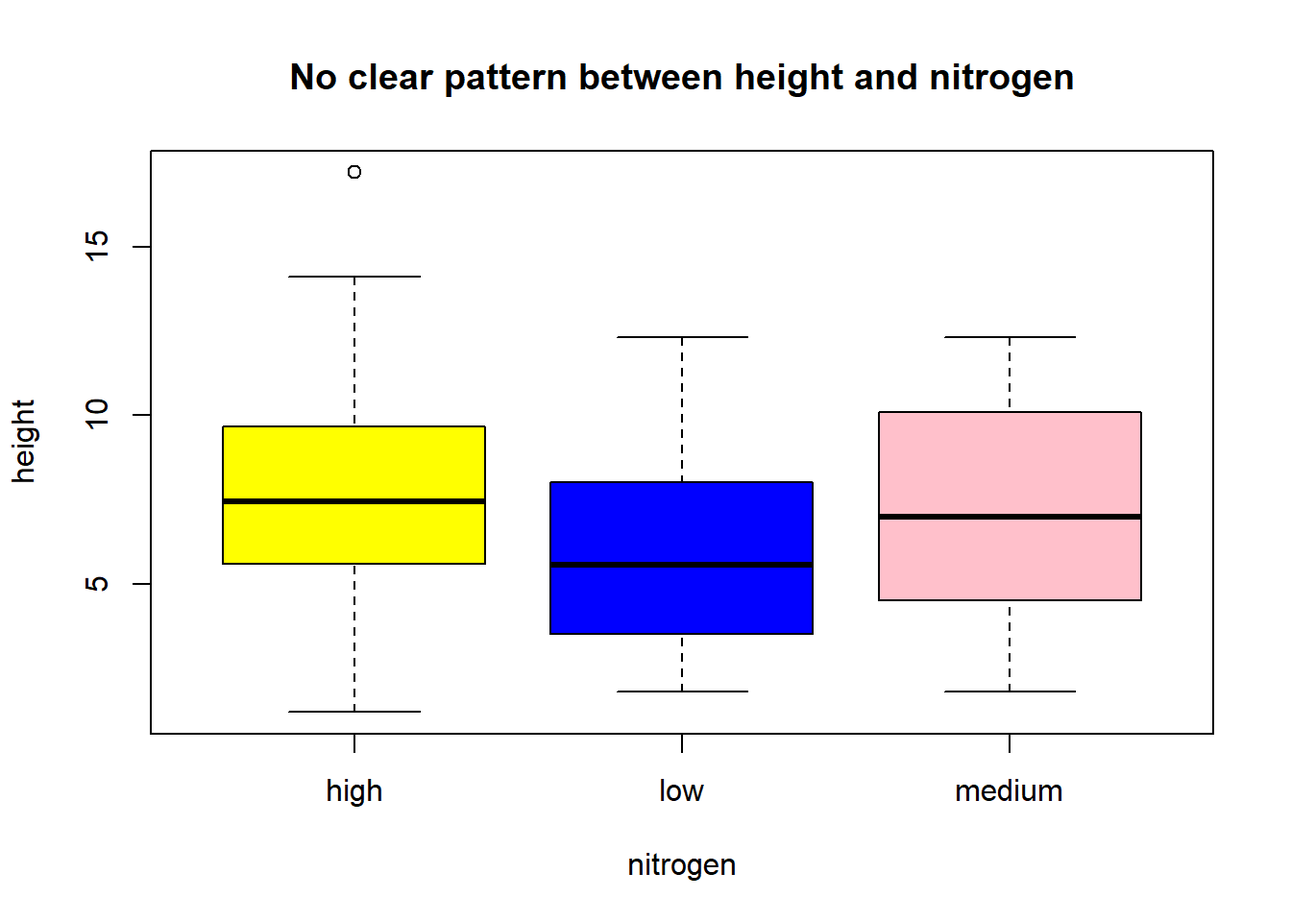
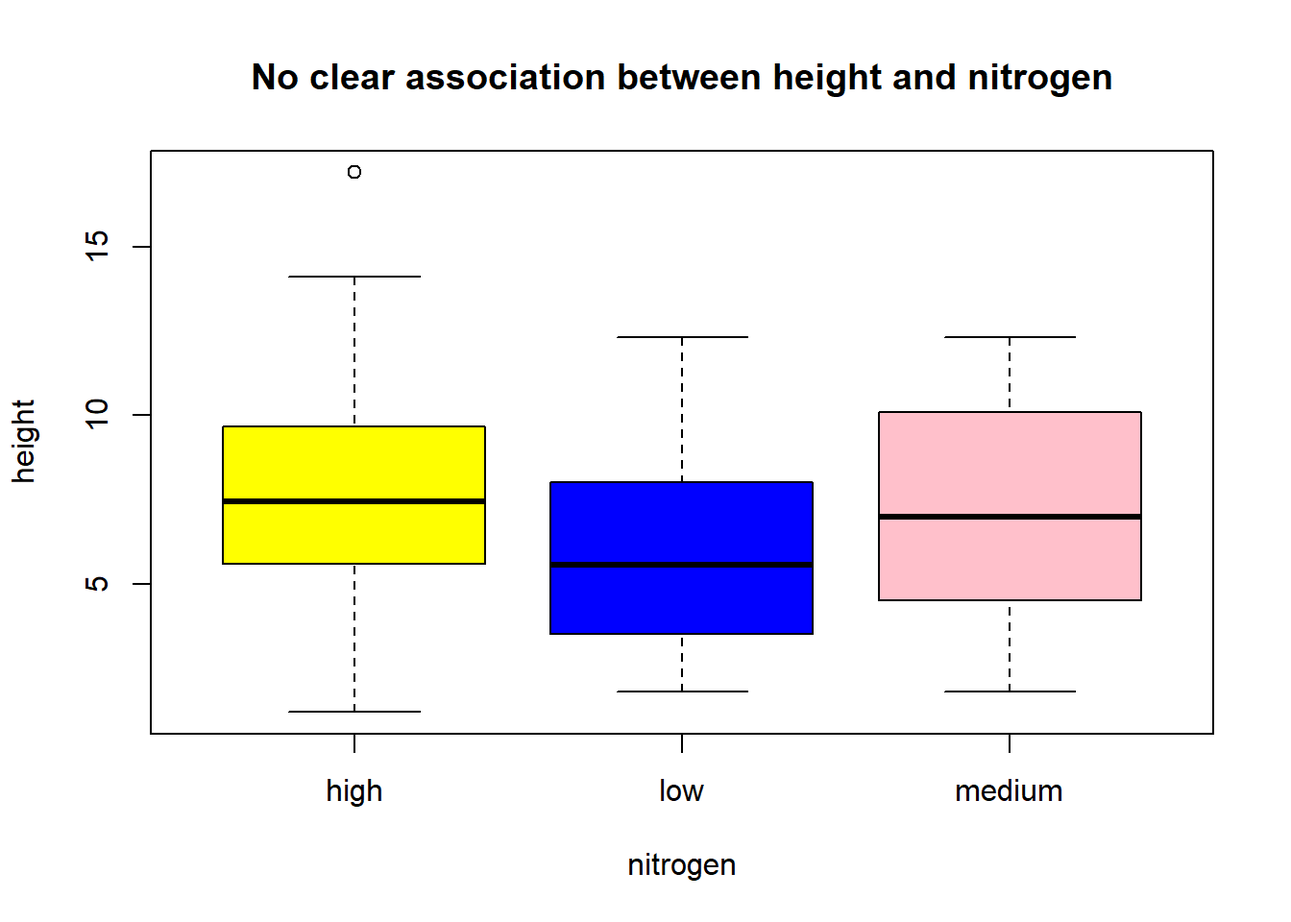
Multiple edits for clarity

Changed region(s): [[0.1875, 0.0625, 0.875, 0.125]]

diff --git a/docs/04_basic_data_processing.html b/docs/04_basic_data_processing.html
@@ -210,8 +210,7 @@ pre > code.sourceCode > span > a:first-child::before { text-decoration: underlin
 
 </header>
 
-<p>Now that we understand how <strong>R</strong> handles data, we can start working with pre-existing data files. These files need to be correctly formatted and in a file format that <strong>R</strong> can recognize. Don’t worry, there are plenty of options.</p>
-<p>The first step when loading data in <strong>R</strong> is to locate our working directory. This is the default location where <strong>R</strong> will look for files we want to load and where it will put any files we save. The working directory will change on different computers. To find our current working directory, we run:</p>
+<p>Now we can apply our understanding of <strong>R</strong> to work with files of pre-existing data. The first step when loading data into <strong>R</strong> is to locate our working directory. This is the default location where <strong>R</strong> will look for files we want to load and where it will put any files we save. The working directory will change on different computers. To find our current working directory, we run:</p>
 <div class="cell">
 <div class="sourceCode cell-code" id="cb1"><pre class="sourceCode r code-with-copy"><code class="sourceCode r"><span id="cb1-1"><a href="#cb1-1" aria-hidden="true" tabindex="-1"></a><span class="fu">getwd</span>()</span></code><button title="Copy to Clipboard" class="code-copy-button"><i class="bi"></i></button></pre></div>
 </div>
@@ -220,19 +219,19 @@ pre > code.sourceCode > span > a:first-child::before { text-decoration: underlin
 <pre><code>[1] "C:/Users/user_name/workshop_folder/learning_r/code"</code></pre>
 </div>
 </div>
-<p>We can move our working directory to any folder on your computer with the function <code>setwd()</code>. Just give <code>setwd()</code> the <a href="https://www.codecademy.com/resources/docs/general/file-paths">file path</a> to your new working directory. I prefer to set my working directory to a folder dedicated to whichever project I am currently working on. This way, all files related to my project are in the same place. For example:</p>
+<p>We can move our working directory to any folder on our computer by writing a new <a href="https://www.codecademy.com/resources/docs/general/file-paths">file path</a> inside the function <code>setwd()</code>. I prefer to set my working directory to a folder dedicated to whichever project I am currently working on. This way, every file related to my project is in the same place. For example:</p>
 <div class="cell">
 <div class="sourceCode cell-code" id="cb3"><pre class="sourceCode r code-with-copy"><code class="sourceCode r"><span id="cb3-1"><a href="#cb3-1" aria-hidden="true" tabindex="-1"></a><span class="fu">setwd</span>(<span class="st">"C:/Users/user_name/workshop_folder/learning_r/code"</span>)</span></code><button title="Copy to Clipboard" class="code-copy-button"><i class="bi"></i></button></pre></div>
 </div>
-<p>We can also change your working directory by clicking on Session &gt; Set Working Directory &gt; Choose Directory in the <strong>R</strong>Studio menu bar. The Windows and Mac graphical user interfaces have similar options. If we start <strong>R</strong> from a UNIX command line (as on Linux machines), the working directory will be whichever directory we were in when we called <strong>R</strong>.</p>
+<p>We can also change our working directory by clicking on Session &gt; Set Working Directory &gt; Choose Directory in the <strong>R</strong>Studio menu bar. The Windows and Mac graphical user interfaces have similar options. If we start <strong>R</strong> from a UNIX command line (as on Linux machines), the working directory will be whichever directory we were in when we called <strong>R</strong>.</p>
 <p><code>list.files()</code> will show us what files are in our working directory. If the file that we want to open is in our working directory, then we are ready to proceed.</p>
 <section id="loading-data" class="level2" data-number="4.1">
 <h2 data-number="4.1" class="anchored" data-anchor-id="loading-data"><span class="header-section-number">4.1</span> Loading data</h2>
 <p>Once we know where to find data files in our computer, we can start loading them into <strong>R</strong>. Note, however, that we need specific ways to open different file formats.</p>
 <section id="plain-text-files" class="level3" data-number="4.1.1">
 <h3 data-number="4.1.1" class="anchored" data-anchor-id="plain-text-files"><span class="header-section-number">4.1.1</span> Plain text files</h3>
-<p>Plain-text files are simple and many programs can read them. This is why many organizations (e.g., the Census Bureau, the Social Security Administration, etc.) publish their data as plain-text files.</p>
 <p>A plain-text file stores a table of data in a text document. Each row of the table is saved on its own line, and a simple symbol separates the cells within a row. This symbol is often a comma, but it can also be a tab, a pipe delimiter <code>|</code>, or any other character. Each file only uses one symbol to separate cells, which minimizes confusion.</p>
+<p>Plain-text files are simple and many programs can read them. This is why many organizations (e.g., the Census Bureau and the Social Security Administration) publish their data as plain-text files.</p>
 <p>We will work with data from <a href="https://github.com/CSCAR/workshop-r-intro/blob/main/data_files/flower.csv">this</a><a href="#fn1" class="footnote-ref" id="fnref1" role="doc-noteref"><sup>1</sup></a> plain text file. Use <code>Ctrl+Shift+s</code> to download the file. I am going to save it in a folder called “data_files” inside my working directory under the name “flower.csv”. But you can save it wherever you want as long as you can keep track of it.</p>
 <section id="read.table" class="level4" data-number="4.1.1.1">
 <h4 data-number="4.1.1.1" class="anchored" data-anchor-id="read.table"><span class="header-section-number">4.1.1.1</span> read.table</h4>
@@ -240,8 +239,8 @@ pre > code.sourceCode > span > a:first-child::before { text-decoration: underlin
 <div class="cell">
 <div class="sourceCode cell-code" id="cb4"><pre class="sourceCode r code-with-copy"><code class="sourceCode r"><span id="cb4-1"><a href="#cb4-1" aria-hidden="true" tabindex="-1"></a>flower_df <span class="ot">&lt;-</span> <span class="fu">read.table</span>(<span class="st">"data_files/flower.csv"</span>, <span class="at">header =</span> <span class="cn">TRUE</span>, <span class="at">sep =</span> <span class="st">","</span>)</span></code><button title="Copy to Clipboard" class="code-copy-button"><i class="bi"></i></button></pre></div>
 </div>
-<p>In the code above, I added two more arguments, <code>header</code> and <code>sep</code>. <code>header</code> tells <strong>R</strong> whether the first line of the file contains variable names instead of values. <code>sep</code> tells <strong>R</strong> the symbol that the file uses to separate the cells.</p>
-<p>Sometimes a plain-text file starts with text that is not part of the data set. Or, maybe we want to read only part of a data set. Argument <code>skip</code> tells <strong>R</strong> to skip a specific number of lines before it starts reading in values from the file. Argument <code>nrow</code> tells <strong>R</strong> to stop reading in values after it has read in a certain number of lines. Keep in mind that the header row doesn’t count towards the total rows allowed by <code>nrow</code>.</p>
+<p>In the code above, I added arguments <code>header</code> and <code>sep</code>. <code>header</code> tells <strong>R</strong> whether the first line of the file contains variable names instead of values; this will help us identify the variables in the data frame. <code>sep</code> tells <strong>R</strong> the symbol that the file uses to separate the cells; this will help us preserve the correct location of the data cells.</p>
+<p>Sometimes a plain-text file starts with text that is not part of the data set. Or maybe we want to read only part of a data set. Argument <code>skip</code> tells <strong>R</strong> to skip a specific number of lines before it starts reading values from the file. Argument <code>nrow</code> tells <strong>R</strong> to only read a certain number of lines, starting from the top. Keep in mind that <code>nrow</code> does not count the header in the number of rows it reads.</p>
 <div class="cell">
 <div class="sourceCode cell-code" id="cb5"><pre class="sourceCode r code-with-copy"><code class="sourceCode r"><span id="cb5-1"><a href="#cb5-1" aria-hidden="true" tabindex="-1"></a>flower_df_chunk <span class="ot">&lt;-</span> <span class="fu">read.table</span>(</span>
 <span id="cb5-2"><a href="#cb5-2" aria-hidden="true" tabindex="-1"></a>    <span class="st">"data_files/flower.csv"</span>, </span>
@@ -273,11 +272,11 @@ pre > code.sourceCode > span > a:first-child::before { text-decoration: underlin
 </section>
 <section id="html-links" class="level4" data-number="4.1.1.3">
 <h4 data-number="4.1.1.3" class="anchored" data-anchor-id="html-links"><span class="header-section-number">4.1.1.3</span> HTML links</h4>
-<p><code>read.table()</code> and its shortcuts allow us to load data files directly from a website. Instead of using the file’s path or name, we can directly use a web address in the <code>file</code> argument of the function. Do make sure that you are using the web address that links directly to the file, not to a web page that has a link to the file.</p>
+<p><code>read.table()</code> and its shortcuts allow us to load data files directly from a website. Instead of using the file’s path or name, we can directly use a web address in the <code>file</code> argument of the function. Make sure to use the web address that links directly to the file, not to a web page that has a link to the file.</p>
 </section>
 <section id="read.fwf" class="level4" data-number="4.1.1.4">
 <h4 data-number="4.1.1.4" class="anchored" data-anchor-id="read.fwf"><span class="header-section-number">4.1.1.4</span> read.fwf</h4>
-<p><em>Fixed-width file</em> (.fwf) is a type of plain-text file that, instead of a symbol, uses its layout to separate data cells. Each row is still in a single line, and each column begins at a specific number of characters from the left-hand side of the document. To correctly position its data, the file adds an arbitrary number of character spaces between data entries.</p>
+<p>A <em>fixed-width file</em> (.fwf) is a type of plain-text file that, instead of a symbol, uses its layout to separate data cells. Each row is still in a single line, and each column begins at a specific number of characters from the left-hand side of the document. To correctly position its data, the file adds an arbitrary number of character spaces between data entries.</p>
 <p>If our flowers data came in a fixed-width file, the first few lines would look like this:</p>
 <div class="cell">
 <pre class="flowers cell-code"><code>treat  nitrogen block  height  weight  leafarea  shootarea  flowers
@@ -289,18 +288,18 @@ tip    medium   1      10.4    13.58   14.5      26.9       4
 tip    medium   1      9.8     10.08   12.2      72.7       9</code></pre>
 </div>
 <p>Fixed-width files may be visually intuitive, but they are difficult to work with. This may explain why <strong>R</strong> has a function for reading fixed-width files, but not for saving them.</p>
-<p>We can read fixed-width files into R with the function <code>read.fwf()</code>. This function adds another argument to the ones from <code>read.table()</code>: <code>widths</code>, which should be a vector of numbers. Each ith entry of the <code>widths</code> vector should state the width (in characters) of the ith column of the data set.</p>
+<p>We can read fixed-width files into <strong>R</strong> with the function <code>read.fwf()</code>. This function adds another argument to the ones from <code>read.table()</code>: <code>widths</code>, which should be a vector of numbers. Each ith entry of the <code>widths</code> vector should state the width (in characters) of the ith column of the data set.</p>
 </section>
 </section>
 <section id="excel-files" class="level3" data-number="4.1.2">
 <h3 data-number="4.1.2" class="anchored" data-anchor-id="excel-files"><span class="header-section-number">4.1.2</span> Excel files</h3>
-<p>The best way to load data from Excel files (.xlsx) into <strong>R</strong> is not to use Excel files. Instead, save these files as .csv or .txt files and then use <code>read.table</code>. Excel files can include multiple spreadsheets, macros, colors, dynamic tables, and other complicated formats. All of these make it difficult for <strong>R</strong> to read the files properly. Plain text files are simpler, so we can load and transfer them more easily.</p>
+<p>The best way to load data from Excel files (.xlsx) into <strong>R</strong> is to first save these files as .csv or .txt files and then use <code>read.table</code>. Excel files can include multiple spreadsheets, macros, colors, dynamic tables, and other complicated formats. All of these make it difficult for <strong>R</strong> to read the files properly. Plain text files are simpler, so we can load and transfer them more easily.</p>
 <p>Still, there are ways to load Excel files into <strong>R</strong> if we <em>really</em> need to. <strong>R</strong> has no native way of loading these files, but we can use the package <code>readxl</code>, which works on all operating systems. We install it using <code>install.packages("readxl")</code>. Then we load it using <code>library(readxl)</code>. Once we load the package, we can use the function <code>read_excel()</code> to load files of the type .xls and .xlsx (see <code>help("read_excel")</code> for more information).</p>
 </section>
 <section id="files-from-other-programs" class="level3" data-number="4.1.3">
 <h3 data-number="4.1.3" class="anchored" data-anchor-id="files-from-other-programs"><span class="header-section-number">4.1.3</span> Files from other programs</h3>
 <p>As with Excel files, I suggest that you first try to transform files from other programs to plain-text files. This transformation is usually the best way to verify that our data is transcribed properly, and allows us to customize the transformation.</p>
-<p>But sometimes we can’t transform the file to a plain-text format—maybe because we can’t access the program that created the file (e.g.&nbsp;SAS). In these cases, we can resort to one of several libraries:</p>
+<p>But sometimes we can’t transform the file to a plain-text format—maybe because we can’t access the program that created the file (e.g., SAS or SPSS). In these cases, we can resort to one of several libraries:</p>
 <ul>
 <li><code>haven</code>, for reading files from SAS, SPSS, and Stata.</li>
 <li><code>R.matlab</code> for reading files for versions MAT 4 and MAT 5.</li>
@@ -310,7 +309,7 @@ tip    medium   1      9.8     10.08   12.2      72.7       9</code></pre>
 </section>
 <section id="cleaning-data" class="level2" data-number="4.2">
 <h2 data-number="4.2" class="anchored" data-anchor-id="cleaning-data"><span class="header-section-number">4.2</span> Cleaning data</h2>
-<p>Once we load our data files as data.frames in <strong>R</strong>, we want to make sure that all of the information has an appropriate format. The process of identifying, removing and correcting inaccurate information is often referred to as “data cleaning”. We will practice data cleaning using a “messy” version of the flower data that we loaded above. You can get this messy version from <a href="https://github.com/CSCAR/workshop-r-intro/blob/main/data_files/flower_messy.csv">here</a>. Again, you can use <code>Ctrl+Shift+s</code> to download the file.</p>
+<p>Once we load our data files as data.frames in <strong>R</strong>, we should verify that all of the information has an appropriate format. The process of identifying, removing and correcting inaccurate information is often referred to as “data cleaning”. We will practice data cleaning using a “messy” version of the flower data that we loaded above. You can get this messy version from <a href="https://github.com/CSCAR/workshop-r-intro/blob/main/data_files/flower_messy.csv">here</a>. Again, you can use <code>Ctrl+Shift+s</code> to download the file.</p>
 <p>Since this is a .csv file, we can load it into <strong>R</strong> using:</p>
 <div class="cell">
 <div class="sourceCode cell-code" id="cb8"><pre class="sourceCode r code-with-copy"><code class="sourceCode r"><span id="cb8-1"><a href="#cb8-1" aria-hidden="true" tabindex="-1"></a>flower_messy_df <span class="ot">=</span> <span class="fu">read.csv</span>(<span class="st">"data_files/flower_messy.csv"</span>, <span class="at">header =</span> <span class="cn">TRUE</span>)</span></code><button title="Copy to Clipboard" class="code-copy-button"><i class="bi"></i></button></pre></div>
@@ -324,7 +323,7 @@ tip    medium   1      9.8     10.08   12.2      72.7       9</code></pre>
 </div>
 </div>
 <p>If we open the data file using something like Excel or Notepad, we can see that the names for columns 6 and 7 had blank spaces inside it. When loading the data, <code>read.csv()</code> automatically substitutes these blank spaces with periods <code>.</code>, so that the names conform to <strong>R</strong>’s conventions. <code>read.csv()</code> is pretty good at checking column names and other things, but it’s not perfect. So, it’s always a good idea to double-check everything ourselves.</p>
-<p>The column names of <code>flower_messy_df</code> are legible, but unwieldy. They have a mix of upper and lower-case that we don’t want to struggle with. Let’s rewrite all the names in lower case, which is quick and easy if we use <code>tolower()</code>.</p>
+<p>The column names of <code>flower_messy_df</code> are legible, but unwieldy. We don’t want to struggle with their mix of upper and lower-case letters. Let’s rewrite all the names in lower case, which is quick and easy if we use <code>tolower()</code>.</p>
 <div class="cell">
 <div class="sourceCode cell-code" id="cb11"><pre class="sourceCode r code-with-copy"><code class="sourceCode r"><span id="cb11-1"><a href="#cb11-1" aria-hidden="true" tabindex="-1"></a>new_colnames <span class="ot">&lt;-</span> <span class="fu">tolower</span>(<span class="fu">colnames</span>(flower_messy_df)) <span class="co"># Modify column names</span></span>
 <span id="cb11-2"><a href="#cb11-2" aria-hidden="true" tabindex="-1"></a>new_colnames</span></code><button title="Copy to Clipboard" class="code-copy-button"><i class="bi"></i></button></pre></div>
@@ -347,7 +346,7 @@ tip    medium   1      9.8     10.08   12.2      72.7       9</code></pre>
 [6] "leaf.area"  "shoot.area" "flowers"   </code></pre>
 </div>
 </div>
-<p>The column names are almost ready. The last change will be to substitute the periods in the names with underscores. In <strong>R</strong>, this is purely out of personal preference, but it’s a good excuse to meet the function <code>gsub()</code>, which substitutes patterns of strings:</p>
+<p>The last change to these column names will be to substitute the periods in the names with underscores. In <strong>R</strong>, this is purely out of personal preference, but it’s a good excuse to meet the function <code>gsub()</code>, which substitutes patterns of strings:</p>
 <div class="cell">
 <div class="sourceCode cell-code" id="cb16"><pre class="sourceCode r code-with-copy"><code class="sourceCode r"><span id="cb16-1"><a href="#cb16-1" aria-hidden="true" tabindex="-1"></a><span class="fu">colnames</span>(flower_clean_df) <span class="ot">&lt;-</span> <span class="fu">gsub</span>(</span>
 <span id="cb16-2"><a href="#cb16-2" aria-hidden="true" tabindex="-1"></a>    <span class="at">pattern =</span> <span class="st">"</span><span class="sc">\\</span><span class="st">."</span>, <span class="co"># What we want to remove</span></span>
@@ -361,7 +360,7 @@ tip    medium   1      9.8     10.08   12.2      72.7       9</code></pre>
 </div>
 </div>
 <p>Note that I had to use <code>"\\."</code> instead of simply <code>"."</code> to match the period. The reason is that <code>gsub()</code> interprets <code>"."</code> as saying “match any character”. This may sound silly but it helps when working with <a href="https://en.wikipedia.org/wiki/Regular_expression">regular expressions</a>—a syntax to find many different, complicated patterns in strings. Regular expressions are too complicated to explain here, but if you expect to work with text data regularly, I encourage you to learn more about them.</p>
-<p>With our improved column names it will be easier to focus on giving every column an appropriate format. Numbers should be of type “double” or “integer”, and text should be of type “character”. Let’s check the types of the columns in our current data set.</p>
+<p>With our improved column names it will be easier to focus on giving every column an appropriate format: numbers should be of type “double” or “integer”, and text should be of type “character” of “factor”. Let’s check the types of the columns in our current data set.</p>
 <div class="cell">
 <div class="sourceCode cell-code" id="cb18"><pre class="sourceCode r code-with-copy"><code class="sourceCode r"><span id="cb18-1"><a href="#cb18-1" aria-hidden="true" tabindex="-1"></a><span class="fu">str</span>(flower_clean_df)</span></code><button title="Copy to Clipboard" class="code-copy-button"><i class="bi"></i></button></pre></div>
 <div class="cell-output cell-output-stdout">
@@ -388,8 +387,8 @@ tip    medium   1      9.8     10.08   12.2      72.7       9</code></pre>
 <div class="sourceCode cell-code" id="cb22"><pre class="sourceCode r code-with-copy"><code class="sourceCode r"><span id="cb22-1"><a href="#cb22-1" aria-hidden="true" tabindex="-1"></a>flower_clean_df[<span class="st">"flowers"</span>] <span class="ot">&lt;-</span> <span class="fu">gsub</span>(</span>
 <span id="cb22-2"><a href="#cb22-2" aria-hidden="true" tabindex="-1"></a>    <span class="at">pattern =</span> <span class="st">"</span><span class="sc">\"</span><span class="st">"</span>, <span class="co"># \" the backlash tells R to match quotes</span></span>
 <span id="cb22-3"><a href="#cb22-3" aria-hidden="true" tabindex="-1"></a>    <span class="at">replacement =</span> <span class="st">""</span>, <span class="co"># This is how we write "nothing"</span></span>
-<span id="cb22-4"><a href="#cb22-4" aria-hidden="true" tabindex="-1"></a>    <span class="at">x =</span> flower_clean_df<span class="sc">$</span>flowers <span class="co"># x needs to be a vector, so use </span></span>
-<span id="cb22-5"><a href="#cb22-5" aria-hidden="true" tabindex="-1"></a>                                     <span class="co"># double brackets or dollar sign</span></span>
+<span id="cb22-4"><a href="#cb22-4" aria-hidden="true" tabindex="-1"></a>    <span class="at">x =</span> flower_clean_df<span class="sc">$</span>flowers <span class="co"># x needs to be a vector, so use</span></span>
+<span id="cb22-5"><a href="#cb22-5" aria-hidden="true" tabindex="-1"></a>                                <span class="co"># double brackets or dollar sign</span></span>
 <span id="cb22-6"><a href="#cb22-6" aria-hidden="true" tabindex="-1"></a>)</span>
 <span id="cb22-7"><a href="#cb22-7" aria-hidden="true" tabindex="-1"></a><span class="fu">head</span>(flower_clean_df<span class="sc">$</span>flowers)</span></code><button title="Copy to Clipboard" class="code-copy-button"><i class="bi"></i></button></pre></div>
 <div class="cell-output cell-output-stdout">
@@ -408,7 +407,7 @@ tip    medium   1      9.8     10.08   12.2      72.7       9</code></pre>
 <pre><code>[1]  1 10 10  1  4  9</code></pre>
 </div>
 </div>
-<p>Columns “treat” and “nitrogen” are of type character, which is not wrong, but it will be easier to handle them if we convert them to factors.</p>
+<p>Columns “treat” and “nitrogen” are of type character. This is not wrong, but it will be easier to handle them if we convert them to factors.</p>
 <div class="cell">
 <div class="sourceCode cell-code" id="cb28"><pre class="sourceCode r code-with-copy"><code class="sourceCode r"><span id="cb28-1"><a href="#cb28-1" aria-hidden="true" tabindex="-1"></a>flower_clean_df[<span class="st">"treat"</span>] <span class="ot">&lt;-</span> <span class="fu">factor</span>(flower_clean_df<span class="sc">$</span>treat)</span>
 <span id="cb28-2"><a href="#cb28-2" aria-hidden="true" tabindex="-1"></a>flower_clean_df[<span class="st">"nitrogen"</span>] <span class="ot">&lt;-</span> <span class="fu">factor</span>(flower_clean_df<span class="sc">$</span>nitrogen)</span>
@@ -425,14 +424,14 @@ tip    medium   1      9.8     10.08   12.2      72.7       9</code></pre>
  $ flowers   : num  1 10 10 1 4 9 7 6 5 8 ...</code></pre>
 </div>
 </div>
-<p>The transformation fixed column “flowers”, but column “nitrogen” looks suspicious. It is supposed to have only three values (“low”, “medium”, and “high”), but its description counts eight values. Let’s examine them more closely:</p>
+<p>Column “flowers” looks fine, but column “nitrogen” looks suspicious. It is supposed to have only three values (“low”, “medium”, and “high”), but its description counts eight values. Let’s examine them more closely:</p>
 <div class="cell">
 <div class="sourceCode cell-code" id="cb30"><pre class="sourceCode r code-with-copy"><code class="sourceCode r"><span id="cb30-1"><a href="#cb30-1" aria-hidden="true" tabindex="-1"></a><span class="fu">levels</span>(flower_clean_df<span class="sc">$</span>nitrogen)</span></code><button title="Copy to Clipboard" class="code-copy-button"><i class="bi"></i></button></pre></div>
 <div class="cell-output cell-output-stdout">
 <pre><code>[1] "high"   "High"   "HIGH"   "low"    "lOw"    "Low"    "medium" "Medium"</code></pre>
 </div>
 </div>
-<p>Remember that <strong>R</strong> is case sensitive, so it interprets each spelling as a different value. We can fix this using <code>tolower()</code> once more. Note that this will convert the “nitrogen” column back to a simple character type, so we have to reconvert it to factor.</p>
+<p>Remember that <strong>R</strong> is case sensitive, so it interprets each of spelling “high” and “low” as a different value. We can fix this using <code>tolower()</code> once more. Note that this will convert the “nitrogen” column back to a simple character type, so we have to reconvert it to factor.</p>
 <div class="cell">
 <div class="sourceCode cell-code" id="cb32"><pre class="sourceCode r code-with-copy"><code class="sourceCode r"><span id="cb32-1"><a href="#cb32-1" aria-hidden="true" tabindex="-1"></a>flower_clean_df[<span class="st">"nitrogen"</span>] <span class="ot">&lt;-</span> <span class="fu">tolower</span>(flower_clean_df<span class="sc">$</span>nitrogen)</span>
 <span id="cb32-2"><a href="#cb32-2" aria-hidden="true" tabindex="-1"></a>flower_clean_df[<span class="st">"nitrogen"</span>] <span class="ot">&lt;-</span> <span class="fu">factor</span>(flower_clean_df<span class="sc">$</span>nitrogen)</span>
@@ -495,13 +494,13 @@ tip    medium   1      9.8     10.08   12.2      72.7       9</code></pre>
 <span id="cb38-2"><a href="#cb38-2" aria-hidden="true" tabindex="-1"></a>    height <span class="sc">~</span> nitrogen,</span>
 <span id="cb38-3"><a href="#cb38-3" aria-hidden="true" tabindex="-1"></a>    <span class="at">data =</span> flower_clean_df, </span>
 <span id="cb38-4"><a href="#cb38-4" aria-hidden="true" tabindex="-1"></a>    <span class="at">col =</span> <span class="fu">c</span>(<span class="st">"yellow"</span>, <span class="st">"blue"</span>, <span class="st">"pink"</span>),</span>
-<span id="cb38-5"><a href="#cb38-5" aria-hidden="true" tabindex="-1"></a>    <span class="at">main =</span> <span class="st">"No clear pattern between height and nitrogen"</span></span>
+<span id="cb38-5"><a href="#cb38-5" aria-hidden="true" tabindex="-1"></a>    <span class="at">main =</span> <span class="st">"No clear association between height and nitrogen"</span></span>
 <span id="cb38-6"><a href="#cb38-6" aria-hidden="true" tabindex="-1"></a>)</span></code><button title="Copy to Clipboard" class="code-copy-button"><i class="bi"></i></button></pre></div>
 <div class="cell-output-display">
 <p><img src="04_basic_data_processing_files/figure-html/height by nitrogen boxplots-1.png" class="img-fluid" width="672"></p>
 </div>
 </div>
-<p>Now let’s say we want to investigate the relationship between shoot area and leaf area. And let’s check whether that relationship differs depending on the value of treat. We can use a scatter plot with shoot area and leaf area, and we can color each point by their treat value.</p>
+<p>Now let’s investigate the relationship between shoot area and leaf area. And let’s check whether that relationship changes depending on the value of treat. We can use a scatter plot with shoot area and leaf area, and we can color each point by their treat value.</p>
 <div class="cell">
 <div class="sourceCode cell-code" id="cb39"><pre class="sourceCode r code-with-copy"><code class="sourceCode r"><span id="cb39-1"><a href="#cb39-1" aria-hidden="true" tabindex="-1"></a><span class="fu">plot</span>(</span>
 <span id="cb39-2"><a href="#cb39-2" aria-hidden="true" tabindex="-1"></a>    <span class="at">x =</span> flower_clean_df<span class="sc">$</span>leaf_area,</span>
@@ -522,7 +521,7 @@ tip    medium   1      9.8     10.08   12.2      72.7       9</code></pre>
 <p><img src="04_basic_data_processing_files/figure-html/leaf area vs shoot area by treat-1.png" class="img-fluid" width="672"></p>
 </div>
 </div>
-<p>Now let’s say we want to see how frequently the values of nitrogen and treat combine with each other, but only for flowers with a leaf area greater than 13.</p>
+<p>Now let’s see how frequently the values of nitrogen and treat combine with each other, but only for flowers with a leaf area greater than 13.</p>
 <div class="cell">
 <div class="sourceCode cell-code" id="cb40"><pre class="sourceCode r code-with-copy"><code class="sourceCode r"><span id="cb40-1"><a href="#cb40-1" aria-hidden="true" tabindex="-1"></a>nitrogen_by_treat_table <span class="ot">=</span> <span class="fu">xtabs</span>(</span>
 <span id="cb40-2"><a href="#cb40-2" aria-hidden="true" tabindex="-1"></a>    <span class="at">formula =</span> <span class="sc">~</span> nitrogen <span class="sc">+</span> treat,</span>
